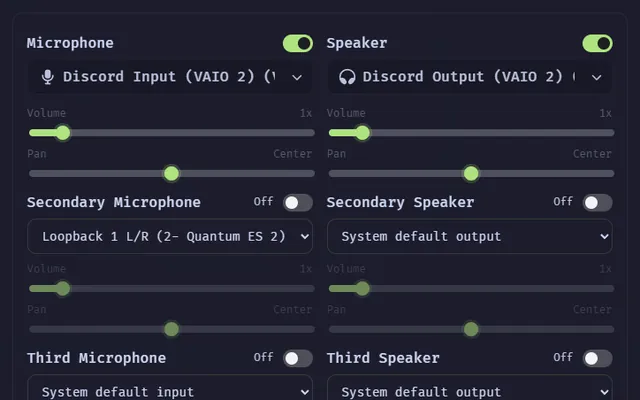
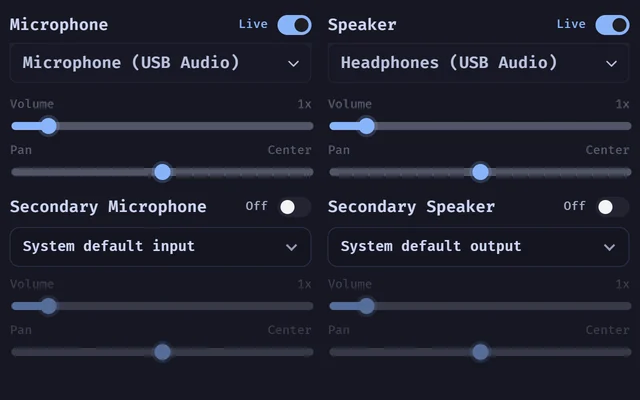
Fresh HaloCord and T3 Code pictures
HaloCord: new capture with made-up device names, nothing cut off, sharper.
T3 Code Enhanced: settings panel only, no model list that would date it.

diff --git a/index.html b/index.html
@@ -104,7 +104,7 @@
         </article>
 
         <article class="card" id="t3">
-          <div class="card__media card__media--wide"><img src="img/t3-code-enhanced-1600.webp" srcset="img/t3-code-enhanced-640.webp 640w, img/t3-code-enhanced-1600.webp 1600w" sizes="(min-width: 960px) 520px, 86vw" width="1600" height="453" loading="lazy" decoding="async" alt="T3 Code Enhanced: the update settings and the model picker"></div>
+          <div class="card__media card__media--panel"><img src="img/t3-code-enhanced-1600.webp" srcset="img/t3-code-enhanced-640.webp 640w, img/t3-code-enhanced-1600.webp 840w" sizes="(min-width: 960px) 460px, 80vw" width="840" height="332" loading="lazy" decoding="async" alt="T3 Code Enhanced settings: check for updates, install them, and how often to check"></div>
           <div class="card__body">
             <div class="card__title"><h3>T3 Code Enhanced</h3><span class="tag">T3 Code</span></div>
             <p>Restyles T3 Code, a desktop app for coding with AI, and adds small fixes. It updates itself and puts the theme back after every T3 Code update.</p>
@@ -194,7 +194,7 @@
 
       <div class="cards cards--projects">
         <a class="card card--link" href="https://github.com/DavidHiFi/HaloCord">
-          <div class="card__media card__media--fill"><img src="img/halocord-1200.webp" srcset="img/halocord-640.webp 640w, img/halocord-1200.webp 724w" sizes="(min-width: 960px) 560px, 92vw" width="724" height="452" loading="lazy" decoding="async" alt="HaloCord's voice settings: two extra microphones and speakers, each with volume and left-right balance"></div>
+          <div class="card__media card__media--fill"><img src="img/halocord-1200.webp" srcset="img/halocord-640.webp 640w, img/halocord-1200.webp 1280w" sizes="(min-width: 960px) 560px, 92vw" width="1280" height="800" loading="lazy" decoding="async" alt="HaloCord's voice settings: a second microphone and speaker, each with its own volume and left-right balance"></div>
           <div class="card__body">
             <div class="card__title"><h3>HaloCord</h3><span class="tag">Windows app</span></div>
             <p>A Discord app for Windows built for voice: stereo sound, extra mics and speakers, voice effects and better screen sharing controls.</p>

diff --git a/assets/site.css b/assets/site.css
@@ -141,8 +141,8 @@ a:hover .arrow { transform: translateX(3px); }
 }
 .card__media img { position: absolute; left: 9%; top: 11%; width: 112%; max-width: none; border-radius: 10px; box-shadow: 0 0 0 1px rgb(205 214 244 / .1), 0 24px 50px -20px rgb(0 0 0 / .85); transition: transform .4s var(--ease); }
 .card:hover .card__media img { transform: translate(-6px, -6px); }
-.card__media--wide img { left: 9%; top: 50%; width: 128%; transform: translateY(-50%); }
-.card:hover .card__media--wide img { transform: translate(0, calc(-50% - 6px)); }
+.card__media--panel img { left: 50%; top: 50%; width: 86%; transform: translate(-50%, -50%); }
+.card:hover .card__media--panel img { transform: translate(-50%, calc(-50% - 6px)); }
 .card__media--fill img { inset: 0; width: 100%; height: 100%; object-fit: cover; object-position: top center; border-radius: 0; box-shadow: none; }
 .card:hover .card__media--fill img { transform: scale(1.03); }
 
